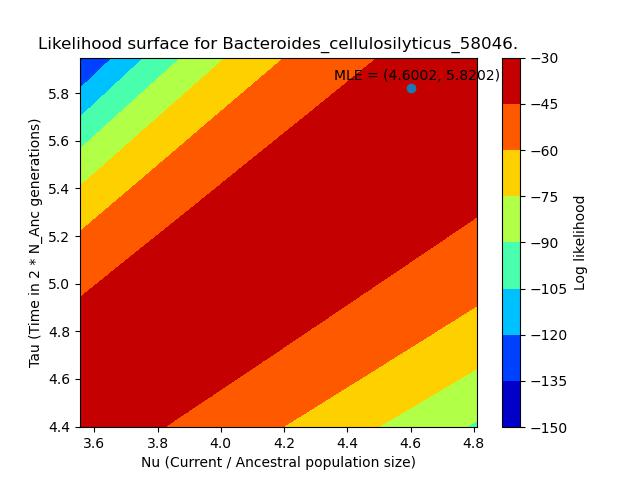
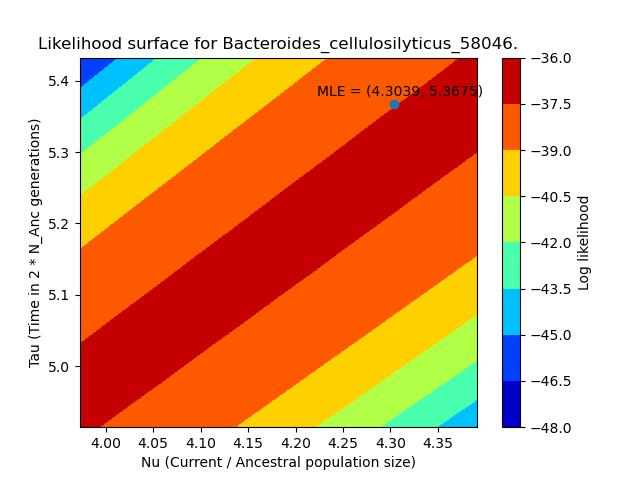
B. cell

diff --git a/Scripts/plot_likelihood.py b/Scripts/plot_likelihood.py
@@ -477,8 +477,8 @@ class PlotLikelihood():
                 # y_range = numpy.linspace(y * 0.95, y * 1.05, npts)
                 
                 # Oscillibacter species
-                x_range = numpy.linspace(x * 0.85, x * 1.15, npts)
-                y_range = numpy.linspace(y * 0.85, y * 1.15, npts)
+                x_range = numpy.linspace(x * 0.95, x * 1.05, npts)
+                y_range = numpy.linspace(y * 0.95, y * 1.05, npts)
 
                 X, Y = numpy.meshgrid(x_range, y_range)
 
